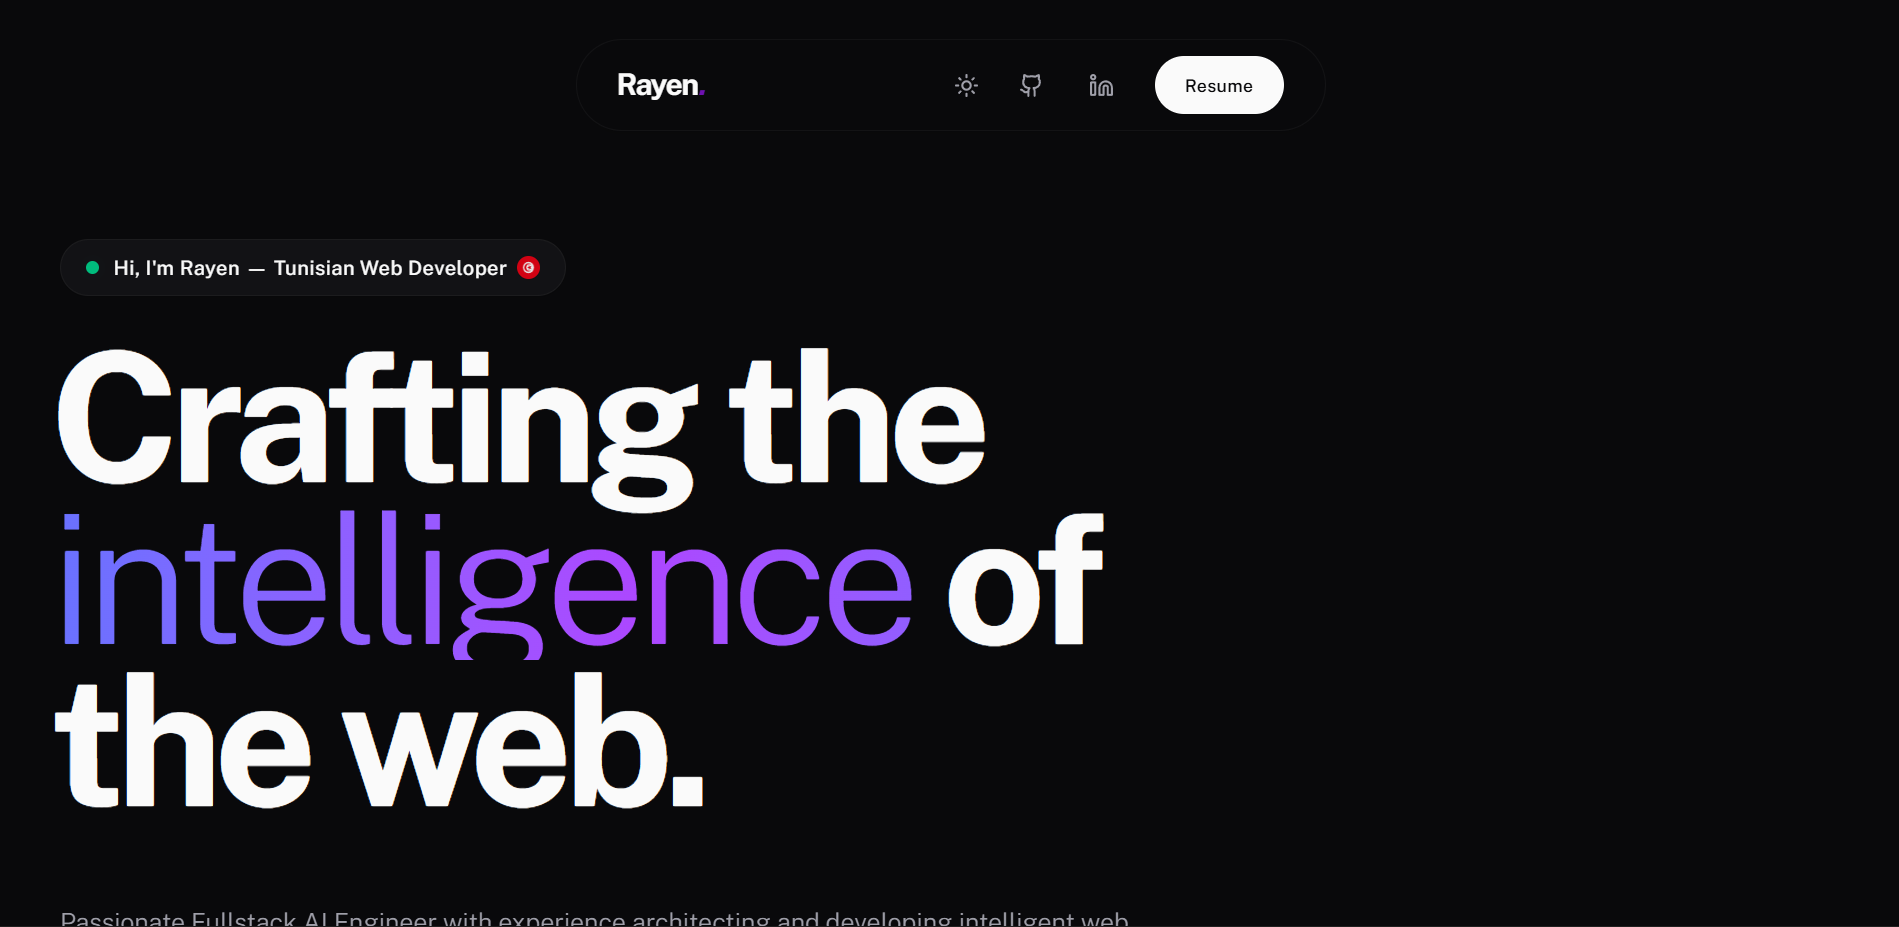
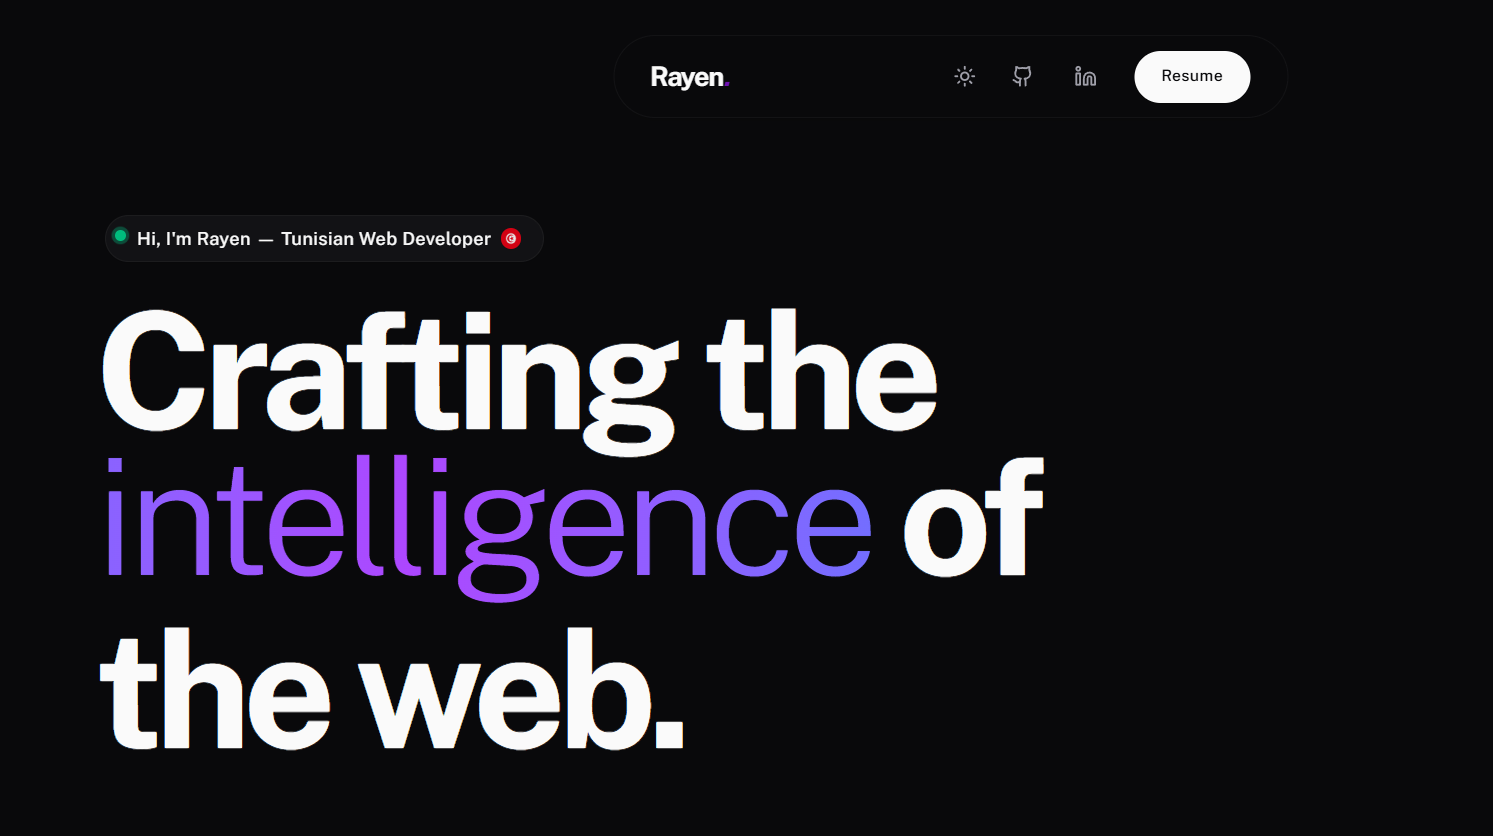
final

diff --git a/app/page.tsx b/app/page.tsx
@@ -106,12 +106,15 @@ export default function Home() {
                         initial={{ opacity: 0, scale: 0.9 }}
                         animate={{ opacity: 1, scale: 1 }}
                         transition={{ delay: 0.2, duration: 0.5, ease: [0.16, 1, 0.3, 1] }}
-                        className="inline-flex items-center gap-3 px-5 py-2.5 rounded-full bg-secondary/30 border border-border/40 backdrop-blur-md shadow-sm"
+                        className="inline-flex items-center gap-3 px-5 py-2 rounded-full bg-secondary/30 border border-border/40 backdrop-blur-md shadow-sm"
                     >
-                        <span className="relative flex h-2.5 w-2.5">
-                            <span className="animate-ping absolute inline-flex h-full w-full rounded-full bg-emerald-400 opacity-75"></span>
-                            <span className="relative inline-flex rounded-full h-2.5 w-2.5 bg-emerald-500"></span>
-                        </span>
+                        <div className="relative flex items-center -ml-1">
+                            
+                            <span className="absolute -bottom-0.5 -right-0.5 flex h-2.5 w-2.5">
+                                <span className="animate-ping absolute inline-flex h-full w-full rounded-full bg-emerald-400 opacity-75"></span>
+                                <span className="relative inline-flex rounded-full h-2.5 w-2.5 bg-emerald-500"></span>
+                            </span>
+                        </div>
                         <span className="text-sm md:text-base font-medium tracking-wide flex items-center gap-2">
                             Hi, I'm Rayen — Tunisian Web Developer 
                             <img src="https://flagcdn.com/w40/tn.png" alt="TN" className="w-[18px] h-[18px] rounded-full object-cover shadow-sm opacity-90 aspect-square" />
@@ -124,7 +127,7 @@ export default function Home() {
                             animate={{ backgroundPosition: ["0% 50%", "100% 50%", "0% 50%"] }}
                             transition={{ duration: 5, repeat: Infinity, ease: "linear" }}
                             style={{ backgroundSize: "200% auto" }}
-                            className="relative inline-block text-transparent bg-clip-text bg-gradient-to-r from-blue-500 via-purple-500 to-blue-500 font-light"
+                            className="relative inline-block text-transparent bg-clip-text bg-gradient-to-r from-blue-500 via-purple-500 to-blue-500 font-light pb-4 md:pb-6"
                         >
                             intelligence
                         </motion.span> of the web.
